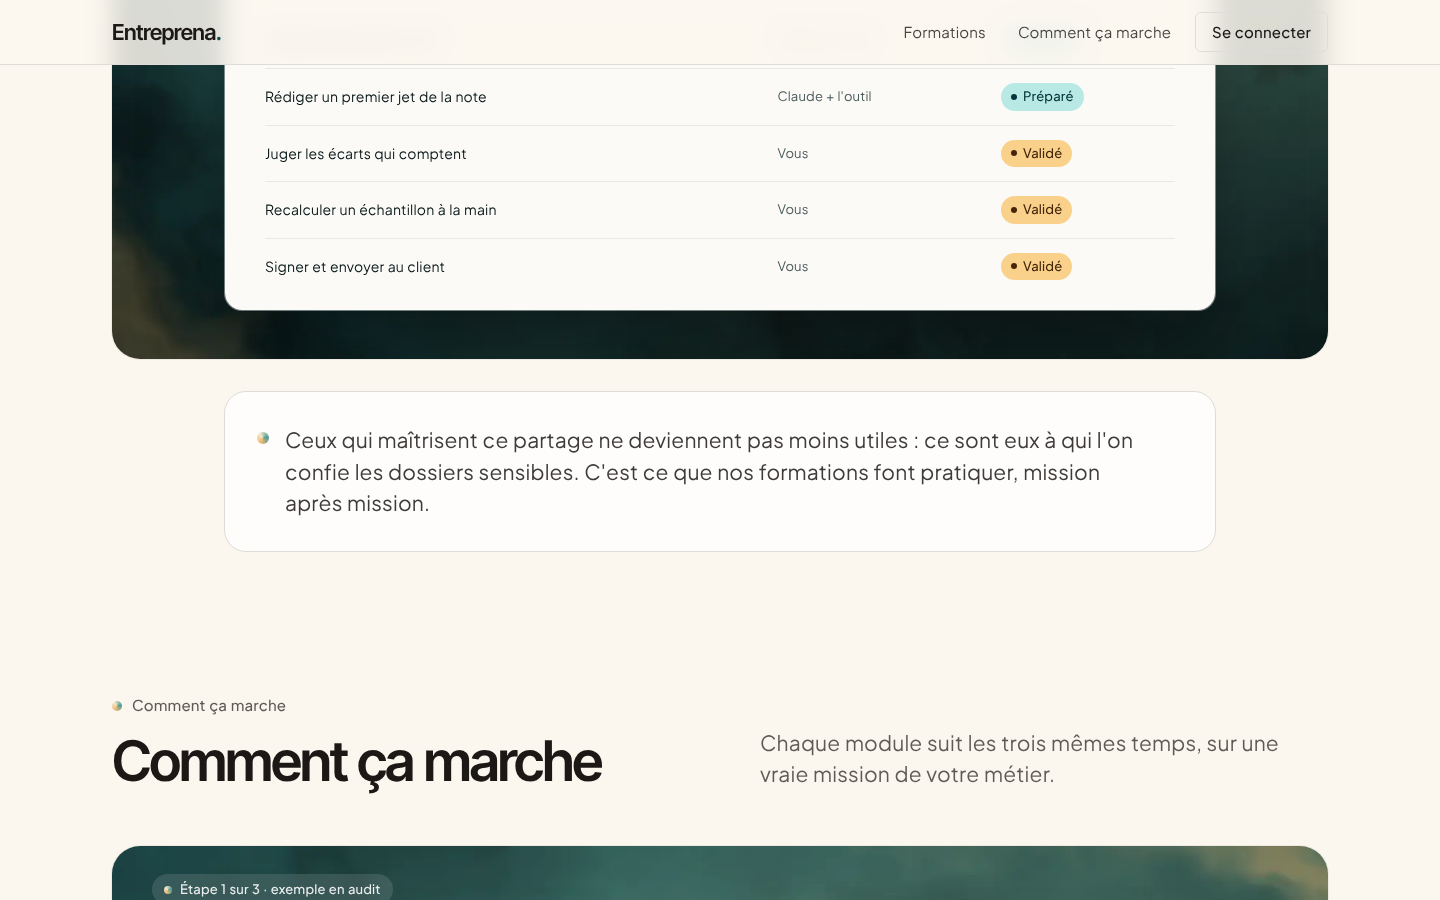
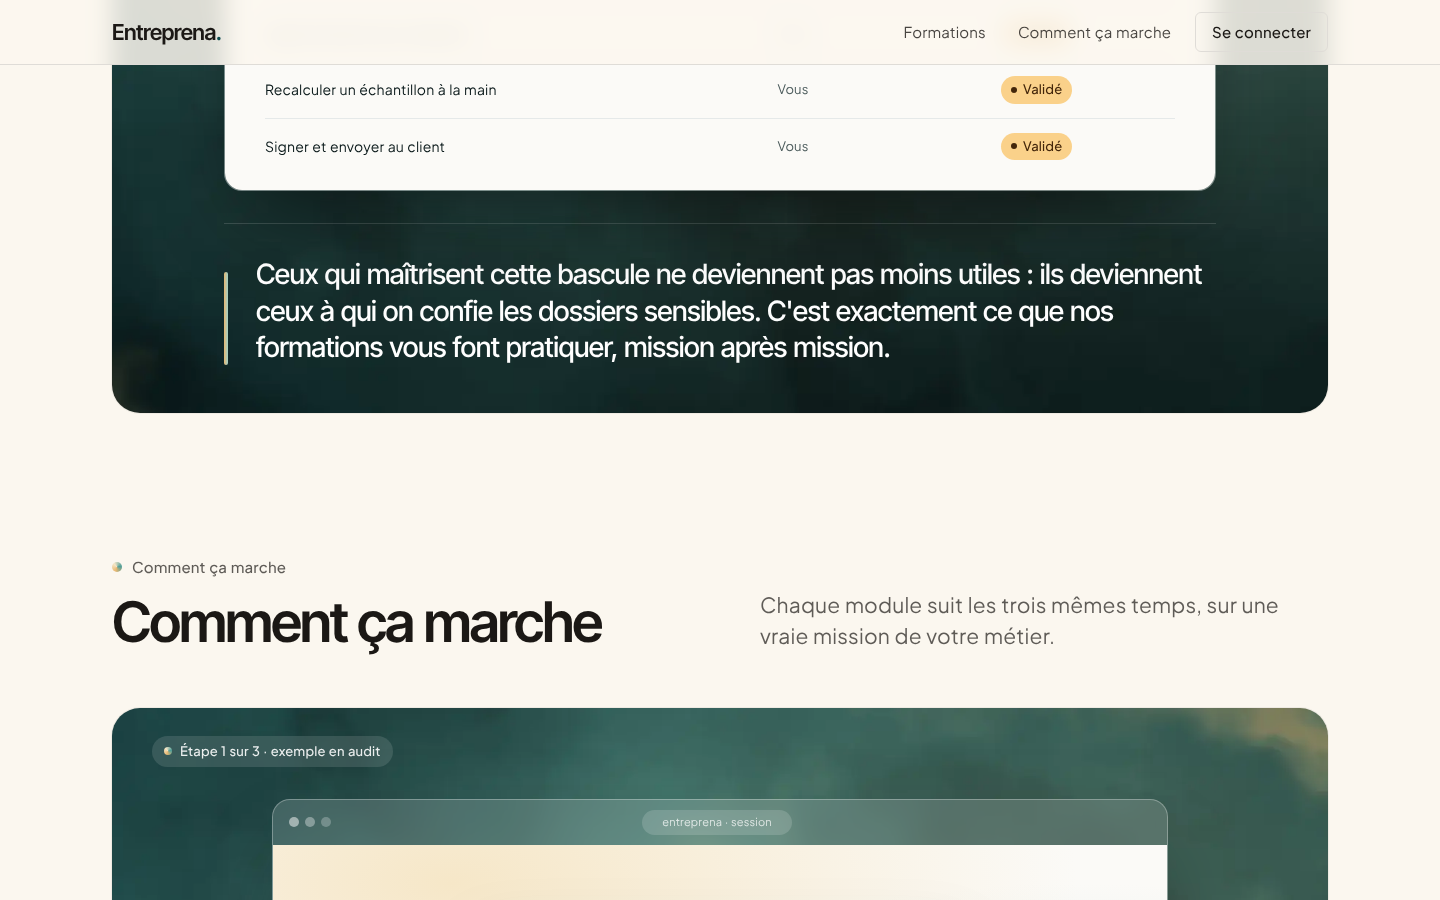
Vitrine : conclusion du constat intégrée à la fenêtre de lumière
- Le texte « Ceux qui maîtrisent cette bascule… » (formulation d'origine) est posé sous le tableau,
  en grand, avec un trait de lumière, au lieu d'un encadré blanc.

Claude-Session: https://claude.ai/code/session_01GZUdG4huU1VX3gsbMoCov3

diff --git a/src/components/site/section-constat.tsx b/src/components/site/section-constat.tsx
@@ -2,7 +2,7 @@
 
 import * as React from "react";
 import Image from "next/image";
-import { AppWindow, Eyebrow, Frame, LightDot } from "./kit";
+import { AppWindow, Eyebrow, Frame } from "./kit";
 import { ExempleNote, useMetier } from "./metier-context";
 import { cn } from "@/lib/utils";
 
@@ -218,13 +218,14 @@ export function SectionConstat({
               </div>
             </AppWindow>
             <ExempleNote className="mt-4 text-center !text-white/70" />
+            {/* Conclusion : posée dans la fenêtre de lumière, sous le tableau, comme une légende. */}
+            <div className="mx-auto mt-8 grid max-w-[62rem] gap-5 border-t border-white/15 pt-8 sm:grid-cols-[auto_1fr] sm:gap-7">
+              <span aria-hidden className="h-1 w-14 rounded-full bg-[linear-gradient(90deg,#e9b872,#9fd1c9)] sm:mt-4 sm:h-auto sm:w-1" />
+              <p className="font-display text-[clamp(1.25rem,1rem+1vw,1.75rem)] leading-[1.3] font-medium tracking-[-0.02em] text-white">{reponse}</p>
+            </div>
           </Frame>
         </div>
-        {/* Conclusion du constat : mise en avant, alignée sur le tableau, avec la pastille de lumière. */}
-        <div className="mx-auto mt-8 flex max-w-[62rem] gap-4 rounded-[22px] border border-border bg-card p-6 sm:p-8">
-          <LightDot className="mt-2 size-3 shrink-0" />
-          <p className="type-lead text-foreground/85">{reponse}</p>
-        </div>
+
       </div>
     </div>
   );

diff --git a/src/lib/vitrine/textes.ts b/src/lib/vitrine/textes.ts
@@ -49,7 +49,7 @@ export const accueil = {
     changeTitle: "Ce qui change dans votre métier",
     changeIntro: "Sur une mission type, l'outil prépare et vous gardez la main sur tout ce qui engage votre responsabilité.",
     reponse:
-      "Ceux qui maîtrisent ce partage ne deviennent pas moins utiles : ce sont eux à qui l'on confie les dossiers sensibles. C'est ce que nos formations font pratiquer, mission après mission.",
+      "Ceux qui maîtrisent cette bascule ne deviennent pas moins utiles : ils deviennent ceux à qui on confie les dossiers sensibles. C'est exactement ce que nos formations vous font pratiquer, mission après mission.",
   },
 
   etapes: {
